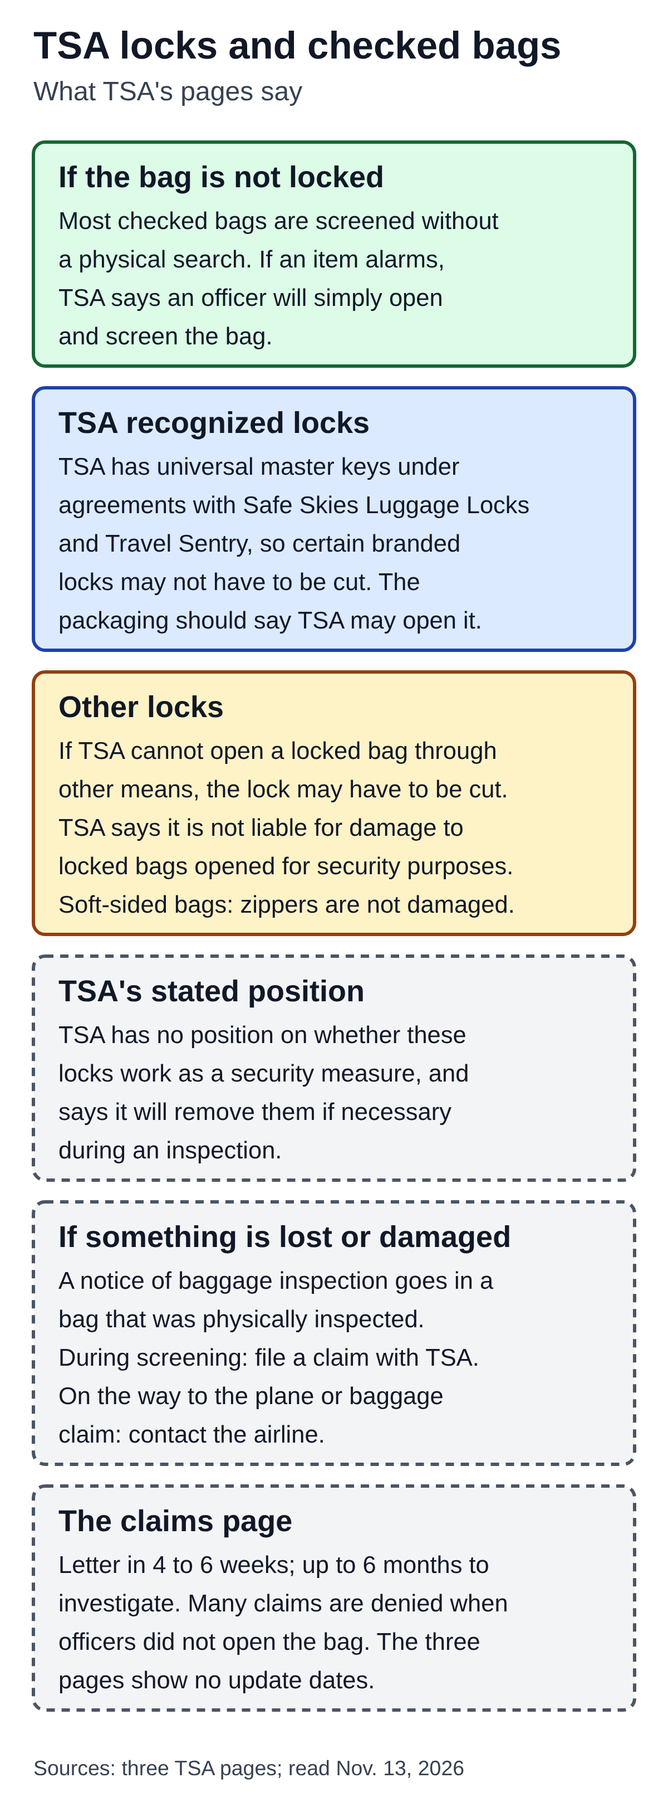
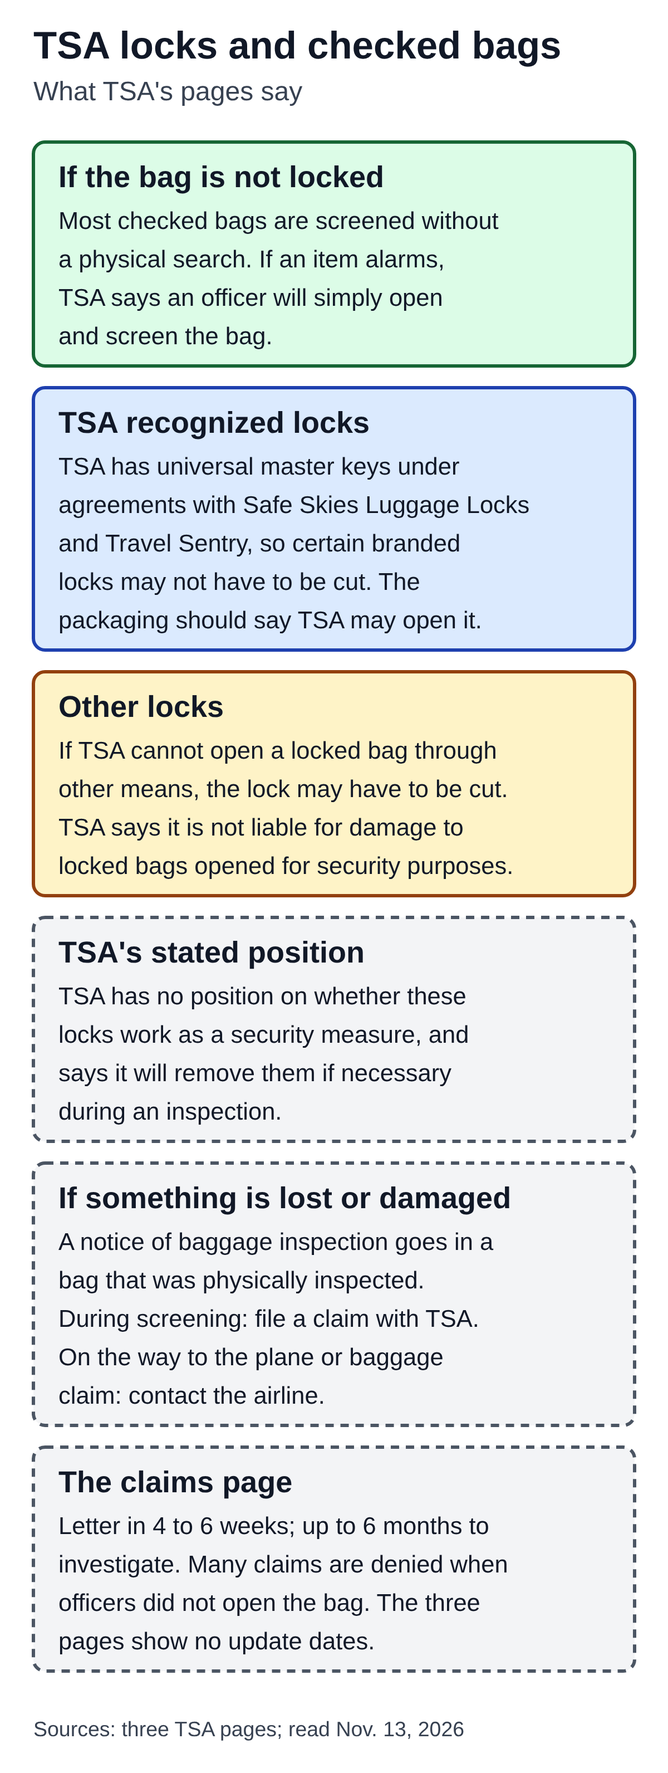
Gate 2 FIX for TSA locks and USPS holiday shipping deadlines drafts
TSA: remove the soft-sided/zipper line from the diagram and alt; keep it in the body only as an
attributed quote with scope notes. USPS: name the table each Priority Mail Express refund note is
attached to (checked in page markup). Changed parts re-checked and recorded in QA and decision log.

Claude-Session: https://claude.ai/code/session_01BXtGEA3Qzg6u2ejRb8jbFU

diff --git a/content/drafts/tsa-locks-checked-bag-what-tsa-says.md b/content/drafts/tsa-locks-checked-bag-what-tsa-says.md
@@ -8,7 +8,7 @@ status: draft
 date: 2026-11-13
 internal_link_candidates: tsa-shoes-laptops-what-tsa-says (published; checkpoint and carry-on screening, linked once as the neighbouring topic)
 image: assets/optimized/tsa-locks-checked-bag-what-tsa-says.png
-image_alt: "Diagram of what TSA's pages say about locking a checked bag, from TSA's Security Screening page, TSA's Travel Tips page and TSA's Claims page. Bag not locked: most checked bags are screened without a physical search; if an item alarms, TSA says an officer will simply open and screen the bag. TSA recognized locks: TSA has universal master keys under agreements with Safe Skies Luggage Locks and Travel Sentry, so certain branded locks may not have to be cut; the packaging should say TSA may open the lock. Other locks: if TSA cannot open a locked bag through other means, the lock may have to be cut; TSA says it is not liable for damage to locked bags opened for security purposes; on soft-sided bags, TSA says cutting will not damage zippers or zipper pulls. TSA's stated position: TSA has no position on whether these locks work as a security measure and says it will remove them if necessary during an inspection. Lost or damaged: a notice of baggage inspection goes in a bag that was physically inspected; for loss or damage during screening, file a claim with TSA; for loss or damage on the way to the plane or baggage claim, contact the airline. Claims page: an acknowledgment letter comes four to six weeks after filing, TSA allows up to six months to investigate, and many claims are denied when officers did not open the bag. The three pages show no update dates. Sources read Nov. 13, 2026."
+image_alt: "Diagram of what TSA's pages say about locking a checked bag, from TSA's Security Screening page, TSA's Travel Tips page and TSA's Claims page. Bag not locked: most checked bags are screened without a physical search; if an item alarms, TSA says an officer will simply open and screen the bag. TSA recognized locks: TSA has universal master keys under agreements with Safe Skies Luggage Locks and Travel Sentry, so certain branded locks may not have to be cut; the packaging should say TSA may open the lock. Other locks: if TSA cannot open a locked bag through other means, the lock may have to be cut; TSA says it is not liable for damage to locked bags opened for security purposes. TSA's stated position: TSA has no position on whether these locks work as a security measure and says it will remove them if necessary during an inspection. Lost or damaged: a notice of baggage inspection goes in a bag that was physically inspected; for loss or damage during screening, file a claim with TSA; for loss or damage on the way to the plane or baggage claim, contact the airline. Claims page: an acknowledgment letter comes four to six weeks after filing, TSA allows up to six months to investigate, and many claims are denied when officers did not open the bag. The three pages show no update dates. Sources read Nov. 13, 2026."
 ---
 
 # Can You Lock a Checked Bag? What TSA Says About TSA Locks
@@ -17,7 +17,7 @@ image_alt: "Diagram of what TSA's pages say about locking a checked bag, from TS
 
 The three pages are TSA's Security Screening page (its checked baggage section), the Travel Tips page (its "TSA recognized locks" section) and the Claims page. The wording is as of November 13, 2026, and none of the three pages shows an update date. This article is about checked bags only; for what TSA says at the checkpoint, see [TSA Shoes Off and Laptops Out: What TSA Says](https://statesideexplained.com/tsa-shoes-laptops-what-tsa-says/). It does not cover firearms cases, airline rules for locks or bags, prices, or which lock models are sold.
 
-![Diagram of what TSA's pages say about locking a checked bag, from TSA's Security Screening page, TSA's Travel Tips page and TSA's Claims page. Bag not locked: most checked bags are screened without a physical search; if an item alarms, TSA says an officer will simply open and screen the bag. TSA recognized locks: TSA has universal master keys under agreements with Safe Skies Luggage Locks and Travel Sentry, so certain branded locks may not have to be cut; the packaging should say TSA may open the lock. Other locks: if TSA cannot open a locked bag through other means, the lock may have to be cut; TSA says it is not liable for damage to locked bags opened for security purposes; on soft-sided bags, TSA says cutting will not damage zippers or zipper pulls. TSA's stated position: TSA has no position on whether these locks work as a security measure and says it will remove them if necessary during an inspection. Lost or damaged: a notice of baggage inspection goes in a bag that was physically inspected; for loss or damage during screening, file a claim with TSA; for loss or damage on the way to the plane or baggage claim, contact the airline. Claims page: an acknowledgment letter comes four to six weeks after filing, TSA allows up to six months to investigate, and many claims are denied when officers did not open the bag. The three pages show no update dates. Sources read Nov. 13, 2026.](assets/optimized/tsa-locks-checked-bag-what-tsa-says.png)
+![Diagram of what TSA's pages say about locking a checked bag, from TSA's Security Screening page, TSA's Travel Tips page and TSA's Claims page. Bag not locked: most checked bags are screened without a physical search; if an item alarms, TSA says an officer will simply open and screen the bag. TSA recognized locks: TSA has universal master keys under agreements with Safe Skies Luggage Locks and Travel Sentry, so certain branded locks may not have to be cut; the packaging should say TSA may open the lock. Other locks: if TSA cannot open a locked bag through other means, the lock may have to be cut; TSA says it is not liable for damage to locked bags opened for security purposes. TSA's stated position: TSA has no position on whether these locks work as a security measure and says it will remove them if necessary during an inspection. Lost or damaged: a notice of baggage inspection goes in a bag that was physically inspected; for loss or damage during screening, file a claim with TSA; for loss or damage on the way to the plane or baggage claim, contact the airline. Claims page: an acknowledgment letter comes four to six weeks after filing, TSA allows up to six months to investigate, and many claims are denied when officers did not open the bag. The three pages show no update dates. Sources read Nov. 13, 2026.](assets/optimized/tsa-locks-checked-bag-what-tsa-says.png)
 
 ## What happens to a checked bag
 
@@ -43,7 +43,7 @@ The pages do not list lock models or brands that qualify and do not say how to t
 
 ## If TSA cannot open the lock
 
-The Travel Tips page says that for soft-sided baggage, cutting a lock "will not damage your zippers or zipper pulls." It adds that TSA is careful not to damage personal belongings, but is "not liable for damage caused to locked bags that must be opened for security purposes." It says that if an officer opens your bag, a Notice of Baggage Inspection will be placed in it.
+The Travel Tips page says that "for soft-sided baggage, this process will not damage your zippers or zipper pulls." That is TSA's own statement about cutting a lock; the page says nothing about hard-sided baggage and does not say how a lock is cut. In the same passage TSA says it is careful not to damage personal belongings, but is "not liable for damage caused to locked bags that must be opened for security purposes." It says that if an officer opens your bag, a Notice of Baggage Inspection will be placed in it.
 
 Two lines on the pages point in slightly different directions. Travel Tips says recognized locks are meant so that locks "may not have to be cut." The Security Screening page says TSA "has no position on the validity or effectiveness of these product as a security measure and will be forced to remove these products if necessary during the inspection." This article does not resolve how the two fit together.
 
@@ -61,7 +61,7 @@ Screening at some airports is done by private companies instead of TSA. The Clai
 
 ## What the pages do not say
 
-None of the three pages shows an update date. They do not say whether you should lock a checked bag, how often locks are cut, or what "other means" TSA uses before cutting a lock. They do not list lock brands or models. They do not give the share of claims that are approved. Airline rules about locks or checked bags are not covered by any of the three pages.
+None of the three pages shows an update date. They do not say whether you should lock a checked bag, how often locks are cut, or what "other means" TSA uses before cutting a lock. They do not list lock brands or models, and they say nothing about hard-sided bags. They do not give the share of claims that are approved. Airline rules about locks or checked bags are not covered by any of the three pages.
 
 ## Sources
 

diff --git a/docs/content-backlog.md b/docs/content-backlog.md
@@ -64,8 +64,8 @@ Pilot 12 plan: 12 published + 0 ready + 0 draft + 0 briefs = 12 slots, 4 per lan
 | 28 | `usps-media-mail-what-qualifies` | What Can You Send by USPS Media Mail? What Qualifies | `usps media mail` | **published 2026-11-09** (post 102, media 101; Gate 1 PASS 23 of 23; Gate 2 round 1 FIX on `7c150b1` applied in `ceb8aba`, re-check PASS on `f3cfe91`; USPS.com page, DMM 173 and the old media-mail page re-read right before publishing, no change) | post-pilot (not counted) | Lane: postal service and stamps. Chosen 2026-11-09 after the user's go-ahead. Two sources: USPS.com Mail & Shipping Services (Media Mail section; the old media-mail page now says 'This Page Has Moved') and DMM 173; neither shows a date. Demand (Trends, relative only): 'usps media mail' about 2.8 to 2.9 times the vape anchor; question phrases measured near zero; price-driven intent likely, no prices in the article. Differences shown: delivery time, video games and digital media. Re-read both pages right before publishing. Rejected the same day: USPS change of address (21x the vape anchor but overlaps the live mail forwarding post), flat rate box (5x, price-driven). |
 | 29 | `tsa-shoes-laptops-what-tsa-says` | TSA Shoes Off and Laptops Out: What TSA Says | `tsa shoes off` | **published 2026-11-09** (post 107, media 106; Gate 1 PASS 16 of 16 claims; Gate 2 round 1 FIX on `5010b89` applied in `8fbce79`, re-check PASS on `8fbce79`; all eight TSA pages re-read right before publishing, no change) | post-pilot (not counted) | Lane: airport security rules. Chosen 2026-11-09 on the user's request for two non-overlapping TSA/airport and USPS candidates. Eight TSA pages read 2026-11-09 (July 8, 2025 release; Laptops July 15, 2026; Tablets July 21, 2026; Steel Toe Boots May 26, 2022; Travel Checklist, CT page and Security Screening, no date; Juneau CT release July 13, 2026). Demand: Google Trends relative indexes only (US, 12 months, normalized through the vape anchor); search volume not checked. Tension shown, not resolved: the July 2025 release (domestic passengers may keep shoes on) against the PreCheck-only shoe sentence on two item pages. CT lanes: laptops may stay in the bag (CT page, undated; Juneau release, local). Links: 3-1-1 post, PreCheck post. Brief, sources, QA, diagram in the usual folders. Re-read all eight pages at approval and right before publishing; report first if the shoes or CT wording changed. |
 | 30 | `usps-package-pickup-how-it-works` | How Does USPS Package Pickup Work? Free Pickup and Limits | `usps package pickup` | **published 2026-11-09** (post 109, media 108; Gate 1 PASS 24 of 24 claims; Gate 2 round 1 FIX on `5010b89` applied in `8fbce79`, re-check PASS on `8fbce79`; USPS FAQ, USPS.com packages and scheduling pages, DMM 116, 126, 136, 601 and Notice 123 re-read right before publishing, no change) | post-pilot (not counted) | Lane: postal service and stamps. Chosen 2026-11-09 with row 29. Three USPS pages (FAQ, USPS.com packages page, Schedule a Pickup page; none shows a date) plus Notice 123 linked only. No fee or price amount. Demand: Google Trends relative indexes only; search volume not checked. Difference shown, not resolved: FAQ cutoff "2:00 AM Central Time" vs "before 2:00 am" in the modify note. Media Mail is not named on the eligibility list; the article says nothing about it and links the Media Mail post. Re-read the three pages at approval and right before publishing. |
-| 31 | `tsa-locks-checked-bag-what-tsa-says` | Can You Lock a Checked Bag? What TSA Says About TSA Locks | `tsa lock` | **draft** (2026-11-13; Gate 1 PASS 18 of 18 claims; Gate 2 not done; three TSA pages tested 43 of 43 phrases) | post-pilot (not counted) | Lane: airport security rules. Chosen 2026-11-13 on the user's request for two non-overlapping TSA/airport and USPS candidates. Three TSA pages (Security Screening checked baggage section, Travel Tips "TSA recognized locks", Claims; none shows a date). Demand: Google Trends relative indexes only (tsa lock about 7.4 x the vape anchor, spiky); search volume not checked. Tension shown, not resolved: "may not have to be cut" against "will be forced to remove these products if necessary". No prices. Link: shoes and laptops post. Re-read the three pages at approval and right before publishing. |
-| 32 | `usps-holiday-shipping-deadlines-2026` | USPS Holiday Shipping Deadlines 2026: Send-By Dates for Christmas | `usps holiday shipping deadlines` | **draft** (2026-11-13; Gate 1 PASS 17 of 17 claims; Gate 2 not done; three USPS sources tested 65 of 65 phrases) | post-pilot (not counted) | Lane: postal service and stamps. Chosen 2026-11-13 with row 31. Three sources: USPS.com page (no date), USPS release Sept. 22, 2026, USPS FAQ Oct. 14, 2026. Demand: Google Trends relative indexes only; the 12-month average is low (about 0.28 x) and the 2025 daily series ramps from mid-November with a peak Dec. 13 to 19, so chosen on seasonality; search volume not checked. Difference shown, not resolved: refund wording for guaranteed service (USPS.com page against FAQ). Dated content: re-read all three sources right before publishing. Link: Package Pickup post. |
+| 31 | `tsa-locks-checked-bag-what-tsa-says` | Can You Lock a Checked Bag? What TSA Says About TSA Locks | `tsa lock` | **draft** (2026-11-13; Gate 1 PASS 18 of 18 claims; Gate 2 FIX on `cd35086` applied, re-check not done; three TSA pages tested 43 of 43 phrases) | post-pilot (not counted) | Lane: airport security rules. Chosen 2026-11-13 on the user's request for two non-overlapping TSA/airport and USPS candidates. Three TSA pages (Security Screening checked baggage section, Travel Tips "TSA recognized locks", Claims; none shows a date). Demand: Google Trends relative indexes only (tsa lock about 7.4 x the vape anchor, spiky); search volume not checked. Tension shown, not resolved: "may not have to be cut" against "will be forced to remove these products if necessary". No prices. Link: shoes and laptops post. Re-read the three pages at approval and right before publishing. |
+| 32 | `usps-holiday-shipping-deadlines-2026` | USPS Holiday Shipping Deadlines 2026: Send-By Dates for Christmas | `usps holiday shipping deadlines` | **draft** (2026-11-13; Gate 1 PASS 17 of 17 claims; Gate 2 FIX on `cd35086` applied, re-check not done; three USPS sources tested 65 of 65 phrases) | post-pilot (not counted) | Lane: postal service and stamps. Chosen 2026-11-13 with row 31. Three sources: USPS.com page (no date), USPS release Sept. 22, 2026, USPS FAQ Oct. 14, 2026. Demand: Google Trends relative indexes only; the 12-month average is low (about 0.28 x) and the 2025 daily series ramps from mid-November with a peak Dec. 13 to 19, so chosen on seasonality; search volume not checked. Difference shown, not resolved: Priority Mail Express refund wording (USPS.com page against FAQ), each note named with the table it is attached to (Gate 2 FIX applied). Dated content: re-read all three sources right before publishing. Link: Package Pickup post. |
 
 ## Rejected
 

diff --git a/editorial/qa/usps-holiday-shipping-deadlines-2026.md b/editorial/qa/usps-holiday-shipping-deadlines-2026.md
@@ -29,14 +29,14 @@ After drafting, the three sources were opened again in the built-in browser (202
 | C11 | The Nov. 4 date has passed as of 2026-11-13 | date arithmetic | pass |
 | C12 | The release recommends the holiday shipping page for the full military and international list beginning mid-October | S2 | pass |
 | C13 | Delivery date may vary with origin, destination, Post Office acceptance time (FAQ: acceptance date and time) and other conditions; release: plan to mail early to ensure arrival by Dec. 25 | S1; S3; S2 | pass |
-| C14 | Refund wording difference: S1 (as of Aug. 1, 2023, no refund requests for guaranteed service; loss refunds processed) against S3 (excluding Puerto Rico, no refund requests; loss refunds processed); S3's Priority Mail Express 1-Day note for Dec. 22 to 25; the article does not reconcile | S1; S3 | pass |
+| C14 | Priority Mail Express guarantee notes, each scoped to its table (corrected after Gate 2): S1 footnote 5 sits on the Priority Mail Express column of the Alaska, Hawaii, Puerto Rico and territories table (as of Aug. 1, 2023, no refund requests for guaranteed service; loss refunds processed); S1 Lower 48 table has no such footnote; S3 footnote 5 sits on the same table's Priority Mail Express row ("Excluding Puerto Rico..."); S3 footnote 2 on the Lower 48 Priority Mail Express row, repeated at the top of the page, is the 1-Day Dec. 22 to 25 note, which S1 lacks; the article does not reconcile | S1; S3 | pass (DOM checked) |
 | C15 | Hanukkah (Dec. 4 to Dec. 12) is earlier this year; no send-by dates specific to Hanukkah or Kwanzaa | S1; S3 | pass |
 | C16 | The page points to free shipping supplies, printing labels and a free package pickup | S1 | pass |
 | C17 | None of the pages gives a time of day for acceptance or Post Office hours; USPS.com shows no update date; release Sept. 22, 2026; FAQ Oct. 14, 2026 | S1; S2; S3 | pass |
 
 ## Image checks
 
-Diagram `assets/optimized/usps-holiday-shipping-deadlines-2026.png` (1200 x 2796, sha256 prefix e776f16242409379) and `assets/raw/usps-holiday-shipping-deadlines-2026.svg` (sha256 prefix 74da7ac525a1b0bb). Render check printed `[]`. Opened the PNG top and bottom and read every card. Card text matches C1 to C13 and C17. The file transfer tool had added C2PA provenance metadata (caBX chunk, metadata block, namespace); removed on the device and the hashes equal the files built here. Alt text in the front matter equals the alt in the body (script check).
+Diagram `assets/optimized/usps-holiday-shipping-deadlines-2026.png` (1200 x 2796, sha256 prefix e776f16242409379; unchanged) and `assets/raw/usps-holiday-shipping-deadlines-2026.svg` (sha256 prefix 74da7ac525a1b0bb). Render check printed `[]`. Opened the PNG top and bottom and read every card. Card text matches C1 to C13 and C17. The file transfer tool had added C2PA provenance metadata (caBX chunk, metadata block, namespace); removed on the device and the hashes equal the files built here. Alt text in the front matter equals the alt in the body (script check).
 
 ## Format
 
@@ -48,3 +48,9 @@ Meta description 149 characters; title 65 characters; focus keyword `usps holida
 - The refund-wording difference between the USPS.com page and the FAQ is shown, not resolved.
 - The military table labels ZIP 340 and 962-966 as "AE" on USPS.com; the article repeats the ZIP prefixes without the label.
 - Search volume was not checked; Trends relative indexes only. The 12-month average is low; the article is chosen on seasonality (see the candidates file).
+
+## Gate 2 FIX on `cd35086` — applied 2026-11-13 (changed parts only)
+
+**Finding:** the Priority Mail Express refund footnote is attached on the USPS.com page to the table for Alaska, Hawaii, Puerto Rico and U.S. territories, but the draft read as a general condition.
+**Scope check (2026-11-13, page markup, superscripts read in each table):** USPS.com: footnote 5 is on "Priority Mail Express Service" in the Alaska, Hawaii, Puerto Rico and territories table only; the Lower 48 table has no footnote on that row; the number 5 is also used on the military table for the PMEMS availability note (a different note). The USPS.com page has no "1-Day", "December 22" or "Excluding Puerto Rico" text (absence test); its refund sentence matches. FAQ: footnote 5 ("Excluding Puerto Rico...") is on "Priority Mail Express Service" in the Alaska, Hawaii, Puerto Rico and territories table; footnote 2 on "Priority Mail Express Service" in the Lower 48 table is the 1-Day Dec. 22 to 25 note, and the same note is repeated at the top of the page (two occurrences); footnote 2 on the military table's PMEMS is the availability note.
+**Change:** the paragraph in "What "recommended" means" now says which table each note is attached to, quotes the FAQ's "Excluding Puerto Rico" sentence in full, says the Lower 48 USPS.com table has no such footnote and that the 1-Day note is on the FAQ's Lower 48 row and top of page and absent from USPS.com, and says the article does not reconcile the pages and does not apply any note outside its table. The scope was clear enough to keep the explanation. Title, tables, diagram, alt and other sections are unchanged (diagram and alt do not mention refunds).

diff --git a/editorial/qa/tsa-locks-checked-bag-what-tsa-says.md b/editorial/qa/tsa-locks-checked-bag-what-tsa-says.md
@@ -23,7 +23,7 @@ After drafting, the three pages were fetched again in the built-in browser (2026
 | C5 | Recognized locks: TSA developed locks with several companies that officers can open with universal "master" keys so locks may not have to be cut; available at most airports and many travel stores nationwide; packaging indicates whether TSA can open them | S2 | pass |
 | C6 | Security Screening names Safe Skies Luggage Locks and Travel Sentry; locks commercially available; packaging "should indicate they may be opened by TSA officers" | S1 | pass |
 | C7 | Other lock: if TSA cannot open it through other means, the lock may have to be cut | S2 | pass |
-| C8 | Soft-sided baggage: cutting will not damage zippers or zipper pulls | S2 | pass |
+| C8 | Body only (removed from the diagram and alt after Gate 2): Travel Tips says "for soft-sided baggage, this process will not damage your zippers or zipper pulls"; the article attributes it to TSA, notes that the page says nothing about hard-sided baggage or how a lock is cut, and places the liability sentence beside it | S2 | pass (absence of hard-sided tested) |
 | C9 | TSA is careful not to damage belongings but is "not liable for damage caused to locked bags that must be opened for security purposes" | S2 | pass |
 | C10 | TSA has no position on the validity or effectiveness of the locks as a security measure and will be forced to remove them if necessary during inspection | S1 | pass |
 | C11 | Conveyor belts can damage locks and bags; 244 locks pulled from under a baggage-handling conveyor belt at a New York airport over one month | S2 | pass |
@@ -39,7 +39,7 @@ Article statements that are the article's own: the scope paragraph, the sentence
 
 ## Image checks
 
-Diagram `assets/optimized/tsa-locks-checked-bag-what-tsa-says.png` (1200 x 3252, sha256 prefix defcbe00b2ae7070) and `assets/raw/tsa-locks-checked-bag-what-tsa-says.svg` (sha256 prefix eae6fc6d5460169d). Render check printed `[]` (no text beyond the right-edge limit). Opened the PNG top and bottom and read every card. Card text matches C4 to C16. The file transfer tool had added C2PA provenance metadata (a caBX chunk in the PNG, a metadata block and a namespace in the SVG); it was removed on the device and the hashes now equal the files built here. Alt text in the front matter equals the alt in the body (script check).
+Diagram `assets/optimized/tsa-locks-checked-bag-what-tsa-says.png` (1200 x 3183, sha256 prefix 7f1f1ae60617ce62) and `assets/raw/tsa-locks-checked-bag-what-tsa-says.svg` (sha256 prefix d1fcbf4e48cb20b5). Render check printed `[]` (no text beyond the right-edge limit). Opened the PNG top and bottom and read every card. Card text matches C4 to C7 and C9 to C16 (the zipper line was removed after Gate 2). The file transfer tool had added C2PA provenance metadata (a caBX chunk in the PNG, a metadata block and a namespace in the SVG); it was removed on the device and the hashes now equal the files built here. Alt text in the front matter equals the alt in the body (script check).
 
 ## Format
 
@@ -50,3 +50,9 @@ Meta description 146 characters; title 57 characters; focus keyword `tsa lock` i
 - The Travel Tips section reads like an older first-person tip and shows no date; the article treats it as current TSA wording only as of 2026-11-13 and says no page shows a date.
 - The "may not have to be cut" against "will be forced to remove" tension is shown, not resolved.
 - Search volume was not checked; Trends relative indexes only (see the candidates file).
+
+## Gate 2 FIX on `cd35086` — applied 2026-11-13 (changed parts only)
+
+**Finding:** the diagram line "Soft-sided bags: zippers are not damaged" read as a guarantee that zippers are not damaged.
+**Change:** the line is removed from the diagram and from the alt (front matter and body, equal by script check). The Travel Tips sentence stays only in the body, as a quoted TSA statement ("for soft-sided baggage, this process will not damage your zippers or zipper pulls") described as TSA's own statement about cutting a lock, with the notes that the page says nothing about hard-sided baggage and does not say how a lock is cut, followed in the same paragraph by TSA's liability sentence. "What the pages do not say" now also says the pages say nothing about hard-sided bags.
+**Check against the source (2026-11-13):** the Travel Tips section was fetched again; the soft-sided sentence reads as quoted (script match); the section contains no "hard-sided", "hard shell" or "hard side" (absence test); the word "zipper" now appears only twice in the draft, both in the body paragraph (none in the diagram, alt or front matter). The "not liable" sentence was matched earlier at Gate 1 and is unchanged. Diagram rebuilt (render check `[]`, text right edge within the limit), the PNG and SVG opened and the "Other locks" card read; C2PA metadata added by the transfer tool was removed again and the hashes equal the files built here. No other claim, table, diagram card or source was changed.

diff --git a/docs/decision-log.md b/docs/decision-log.md
@@ -1425,3 +1425,9 @@ Gate 2 re-check PASS on `8fbce79` for both posts; moved to ready; WordPress draf
 On the user's request (TSA/airport security and USPS, no overlap with the 25 live posts, interest and reader questions and official sources checked, brief to Gate 1), a third survey was run (`docs/next-candidates-2026-11-13.md`). **Demand:** Google Trends relative indexes only (US, 12 months, up to five phrases per comparison, every comparison including the vape phrase as an anchor); **search volume was not checked** and is not claimed. **Chosen:** TSA locks and checked bags (three TSA pages; "tsa lock" about 7.4 x the anchor; a wording tension shown, not resolved) and USPS 2026 holiday shipping deadlines (three USPS sources that agree on every date; the 12-month average is low but the 2025 daily series ramps from mid-November, so the choice rests on seasonality, and this is stated). **Not chosen:** how to address an envelope or package (highest evergreen reading, but the FAQ is partly mailer-oriented and was read only in part), USPS missing mail (official process pages not read), USPS free boxes (official page not located), parcel locker, TSA claim and lost and found as separate posts. Both have brief, source notes, draft, diagram and Gate 1 QA (TSA 18 of 18 claims, USPS 17 of 17). Backlog rows 31 and 32; draft stage count is now 3 (one held). **Tool note:** the file transfer tool added C2PA provenance metadata to the PNG and SVG files; it was removed on the device and the four asset hashes equal the files built here. **Holiday posts unchanged:** TSA holiday food stays held until a 2026 TSA food notice is read; USPS Thanksgiving needs the 2026 USPS notice (scheduled check 2026-11-14 09:00 KST).
 
 **Open:** the user pushes the local commit and sends both posts to Gate 2 by SHA; after a PASS, the standing rule applies (ready, WordPress draft, phone-width table check, re-read of the official pages right before publishing, publish if unchanged, live QA, records). The USPS holiday post is date-sensitive: publish soon after Gate 2.
+
+## 2026-11-13 (KST, later) — Gate 2 on `cd35086`: TSA locks and USPS holiday dates FIX applied
+
+**TSA locks:** the diagram line about soft-sided bags and zippers read as a guarantee; it is removed from the diagram and the alt. The Travel Tips sentence stays in the body only, quoted and attributed to TSA, with a note that the page says nothing about hard-sided bags or how a lock is cut, next to TSA's liability sentence. **USPS holiday dates:** the Priority Mail Express refund notes are now named with the table each one is attached to (checked in the page markup of both pages): the USPS.com and FAQ footnote 5 are on the Alaska, Hawaii, Puerto Rico and territories table; the FAQ's 1-Day Dec. 22 to 25 note is on its Lower 48 row and top of page, absent from USPS.com. Only the changed parts were compared against the pages and recorded in the QA files. Search volume was not checked; Trends relative indexes only. Holiday posts unchanged (TSA holiday food held; USPS Thanksgiving notice check 2026-11-14 09:00 KST).
+
+**Open:** the user pushes and sends the changed parts of both posts to Gate 2 by the new SHA. The USPS holiday post is date-sensitive: publish soon after a PASS.

diff --git a/content/drafts/usps-holiday-shipping-deadlines-2026.md b/content/drafts/usps-holiday-shipping-deadlines-2026.md
@@ -61,7 +61,7 @@ USPS's note says Priority Mail Express Military Service is available to selected
 
 The pages call these "recommended" dates. Footnote 1 of the USPS.com page and the FAQ say the actual delivery date may vary depending on origin, destination, Post Office acceptance time (the FAQ says acceptance date and time) and other conditions. The September 22 release says customers "should always plan to mail and ship packages early to ensure arrival by Dec. 25."
 
-The pages differ on the guarantee for Priority Mail Express. The USPS.com page says that as of August 1, 2023, USPS no longer processes refund requests for guaranteed service on these items, and that refund requests for loss are still processed. The FAQ says that, excluding Puerto Rico, USPS does not process refund requests for guaranteed service on these items. The FAQ also says that for Priority Mail Express 1-Day shipments mailed December 22 through December 25, postage for the money-back guaranteed service is not refunded if the shipment was delivered, or delivery was attempted, within two business days of the date of mailing. This article does not reconcile the wording.
+The two USPS pages put different notes about the Priority Mail Express guarantee on different tables. On the USPS.com page, footnote 5 is attached to the Priority Mail Express column of the table for Alaska, Hawaii, Puerto Rico and U.S. territories; it says that as of August 1, 2023, USPS no longer processes refund requests for guaranteed service on these items, and that refund requests for loss are still processed. The USPS.com table for the Lower 48 has no such footnote. In the FAQ, footnote 5 is attached to the Priority Mail Express row of the same Alaska, Hawaii, Puerto Rico and territories table and reads: "Excluding Puerto Rico, USPS does not process refund requests for guaranteed service on these items. Refund requests for loss will still be processed." The FAQ puts a separate note on the Priority Mail Express row of its Lower 48 table, and repeats it at the top of the page: for Priority Mail Express 1-Day shipments mailed December 22 through December 25, postage for the money-back guaranteed service is not refunded if the shipment was delivered, or delivery was attempted, within two business days of the date of mailing. The USPS.com page has no such note. This article does not reconcile the wording of the two pages, and it does not apply any of these notes outside the table they are attached to.
 
 The USPS.com page also says that Hanukkah (Dec. 4 to Dec. 12) is earlier this year, so please adjust accordingly; it gives no send-by dates specific to Hanukkah or Kwanzaa. It also points to free shipping supplies, printing labels and scheduling a free package pickup; how pickup works is covered in [How Does USPS Package Pickup Work? Free Pickup and Limits](https://statesideexplained.com/usps-package-pickup-how-it-works/).
 

diff --git a/research/sources/usps-holiday-shipping-deadlines-2026.md b/research/sources/usps-holiday-shipping-deadlines-2026.md
@@ -24,7 +24,7 @@ Same send-by dates as S1 and S2 (military and international dates identical). Di
 
 ## Differences shown, not resolved
 
-- Refund wording for guaranteed service: S1 (as of Aug. 1, 2023, no refund requests for guaranteed service on these items; loss refunds processed) against S3 (excluding Puerto Rico, no refund requests for guaranteed service on these items; loss refunds processed). S3 adds the Priority Mail Express 1-Day Dec. 22 to 25 note; S1 has no such note.
+- Refund wording for guaranteed service, with table scope (markup checked 2026-11-13): S1 footnote 5 is on the Priority Mail Express column of the Alaska, Hawaii, Puerto Rico and territories table only (as of Aug. 1, 2023, no refund requests for guaranteed service on these items; loss refunds processed); the S1 Lower 48 table has no footnote there. S3 footnote 5 is on the Priority Mail Express row of the same Alaska, Hawaii, Puerto Rico and territories table ("Excluding Puerto Rico, USPS does not process refund requests for guaranteed service on these items. Refund requests for loss will still be processed."). S3 footnote 2 is on the Priority Mail Express row of the Lower 48 table and is the 1-Day Dec. 22 to 25 note, repeated at the top of the page; S1 has no such note. (On S1 the number 5 is also used for the unrelated PMEMS availability note in the military table.)
 - "Post Office acceptance time" (S1) against "acceptance date and time" (S3).
 
 ## Absence tests (2026-11-13)

diff --git a/research/briefs/usps-holiday-shipping-deadlines-2026.md b/research/briefs/usps-holiday-shipping-deadlines-2026.md
@@ -31,7 +31,7 @@ Own diagram: cards for the Lower 48, AK/HI/PR/territories, international, milita
 ## Risks
 
 - Dates are time-bound: re-read right before publishing and on each later republish.
-- The USPS.com page footnote 5 (as of Aug. 1, 2023 no refund requests for guaranteed service; loss refunds still processed) and the FAQ footnote 5 ("Excluding Puerto Rico, USPS does not process refund requests...") differ: shown, not resolved. The FAQ adds a Priority Mail Express 1-Day note for Dec. 22 to 25 that the USPS.com page lacks.
+- Priority Mail Express guarantee notes are table-specific: the USPS.com footnote 5 and the FAQ footnote 5 are both on the Alaska, Hawaii, Puerto Rico and territories table and differ in wording ("as of Aug. 1, 2023" against "Excluding Puerto Rico"); the FAQ's 1-Day Dec. 22 to 25 note is on its Lower 48 row and at the top of the page, and USPS.com lacks it. Shown with the table named, not resolved (corrected after Gate 2).
 - The military table headings label ZIP 340 and 962-966 as "AE" like the others; the article repeats the ZIP prefixes without the label.
 - The Ground Advantage military date (Nov. 4) is already past on 2026-11-13: stated in the article.
 
